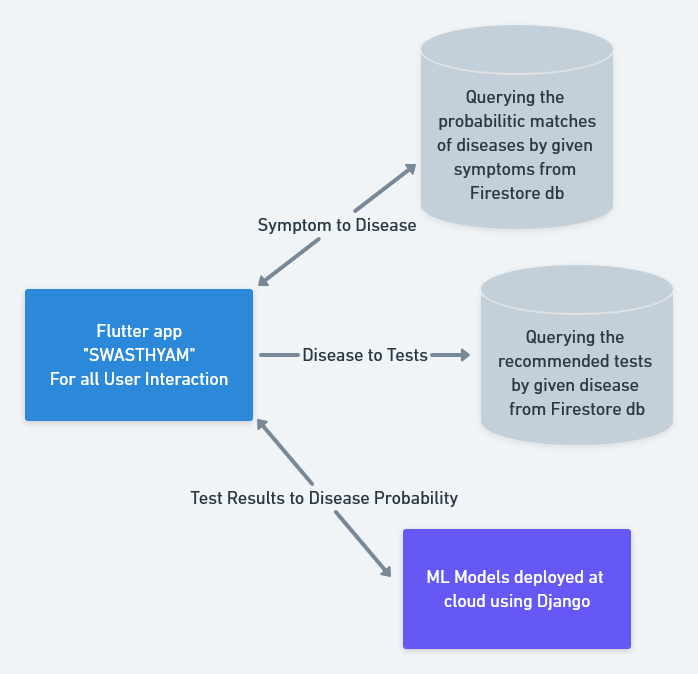
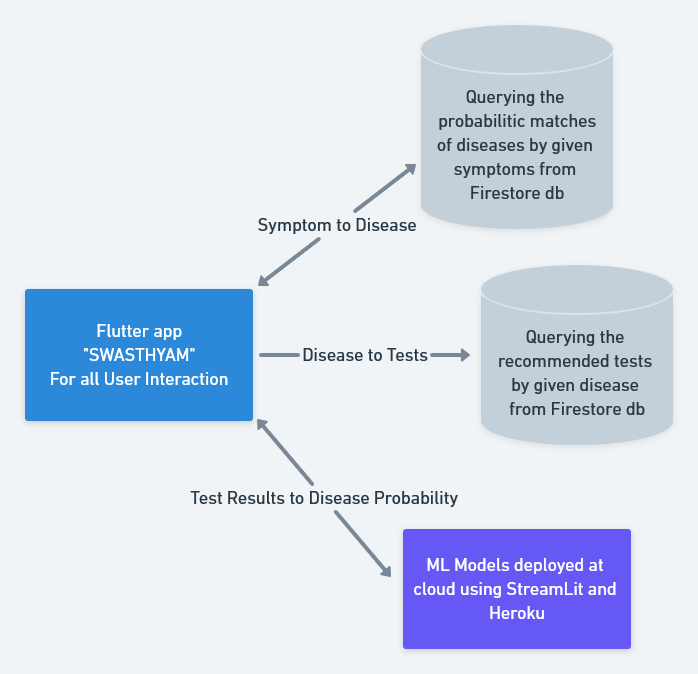
Updated workflow and added checklist

Changed region(s): [[0.6017, 0.8101, 0.8725, 0.9347]]

diff --git a/README.md b/README.md
@@ -4,3 +4,10 @@ A flutter app for detecting the probablistic diseases in patients using Machine 
 ## Workflow Plan :beginner:
 
 ![Workflow Plan](/Swasthyam-Hackout.png)
+
+## CheckList :white_check_mark:
+
+-[] Setup Basic Flutter Project
+-[] Implement functionality to get the diseases from symptoms.
+-[] Implement functionality to get recommended tests from diseases.
+-[] Using the deployed models in app to get disease probability from test results.
